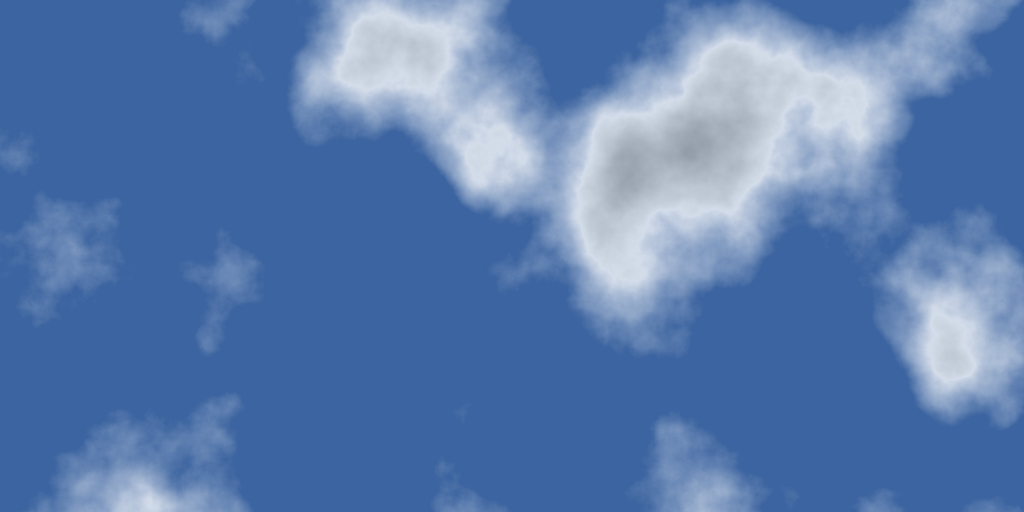
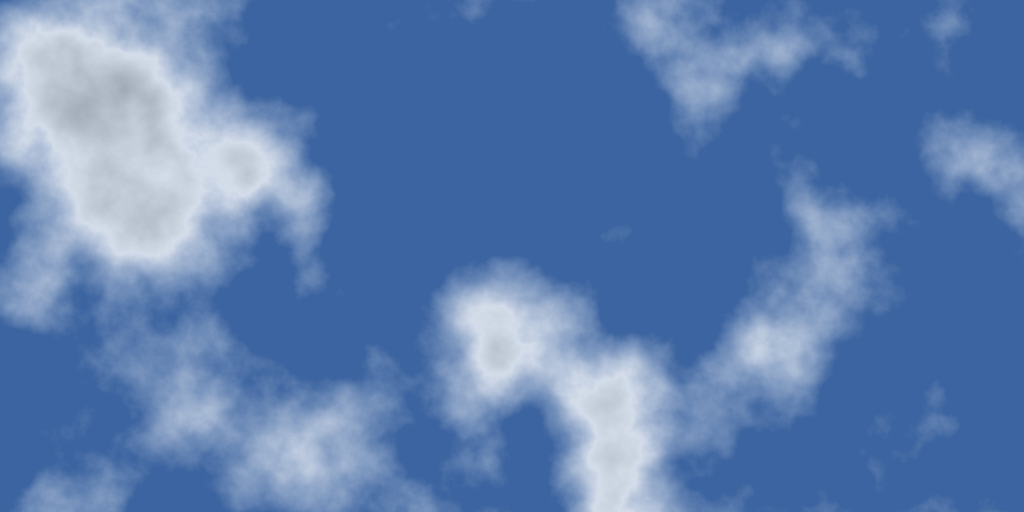
Update

diff --git a/docs/index.html b/docs/index.html
@@ -3,6 +3,6 @@
 <body>
 Today's cloud<br/>
 <img src="latest.png"/><br/>
-Latest update: Thu Feb  4 22:08:57 UTC 2021
+Latest update: Fri Feb  5 22:08:55 UTC 2021
 </body>
 </html>
